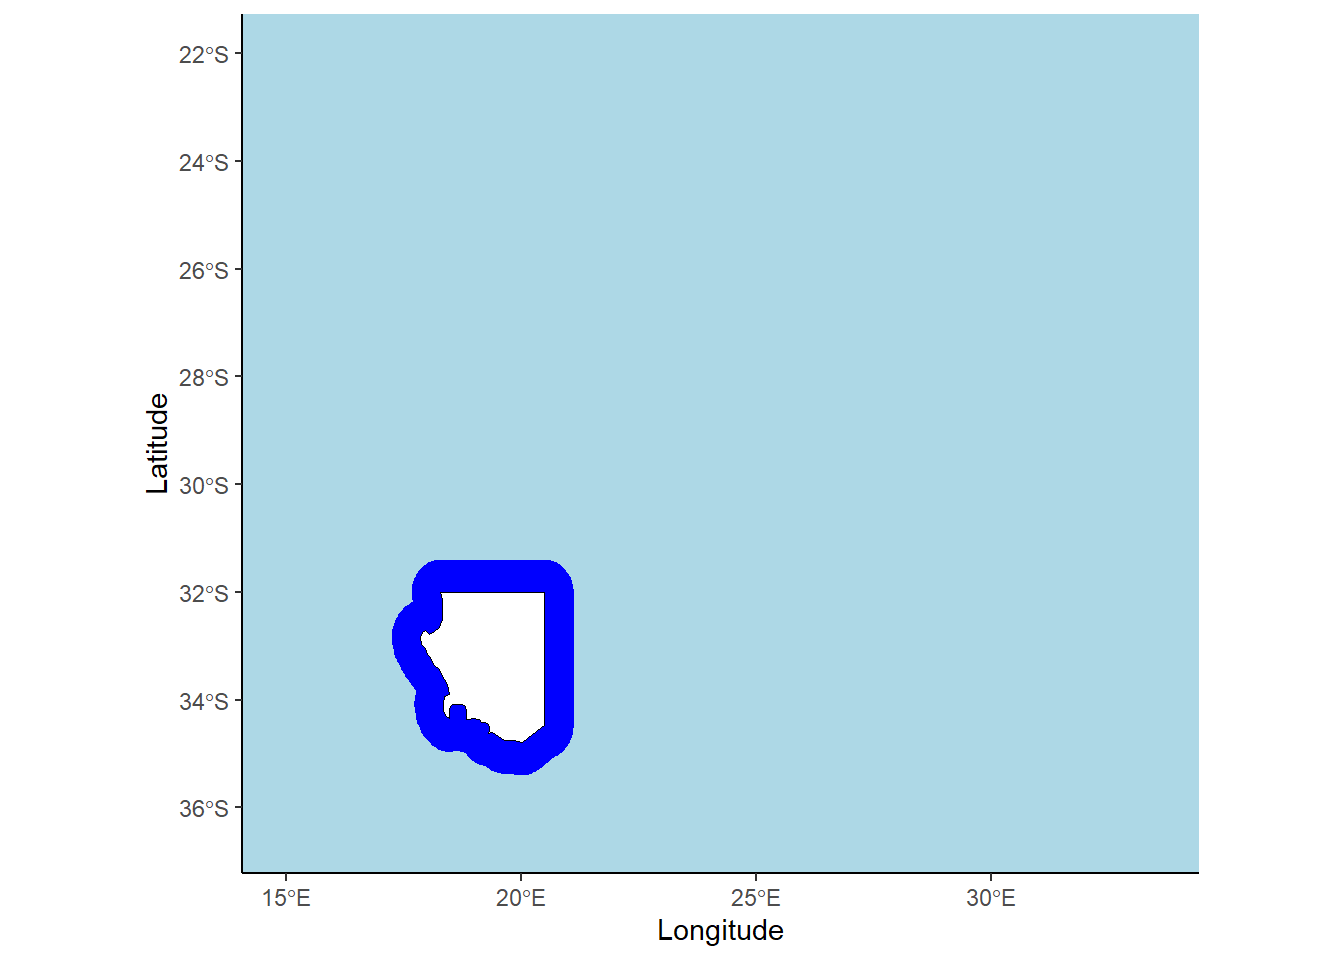
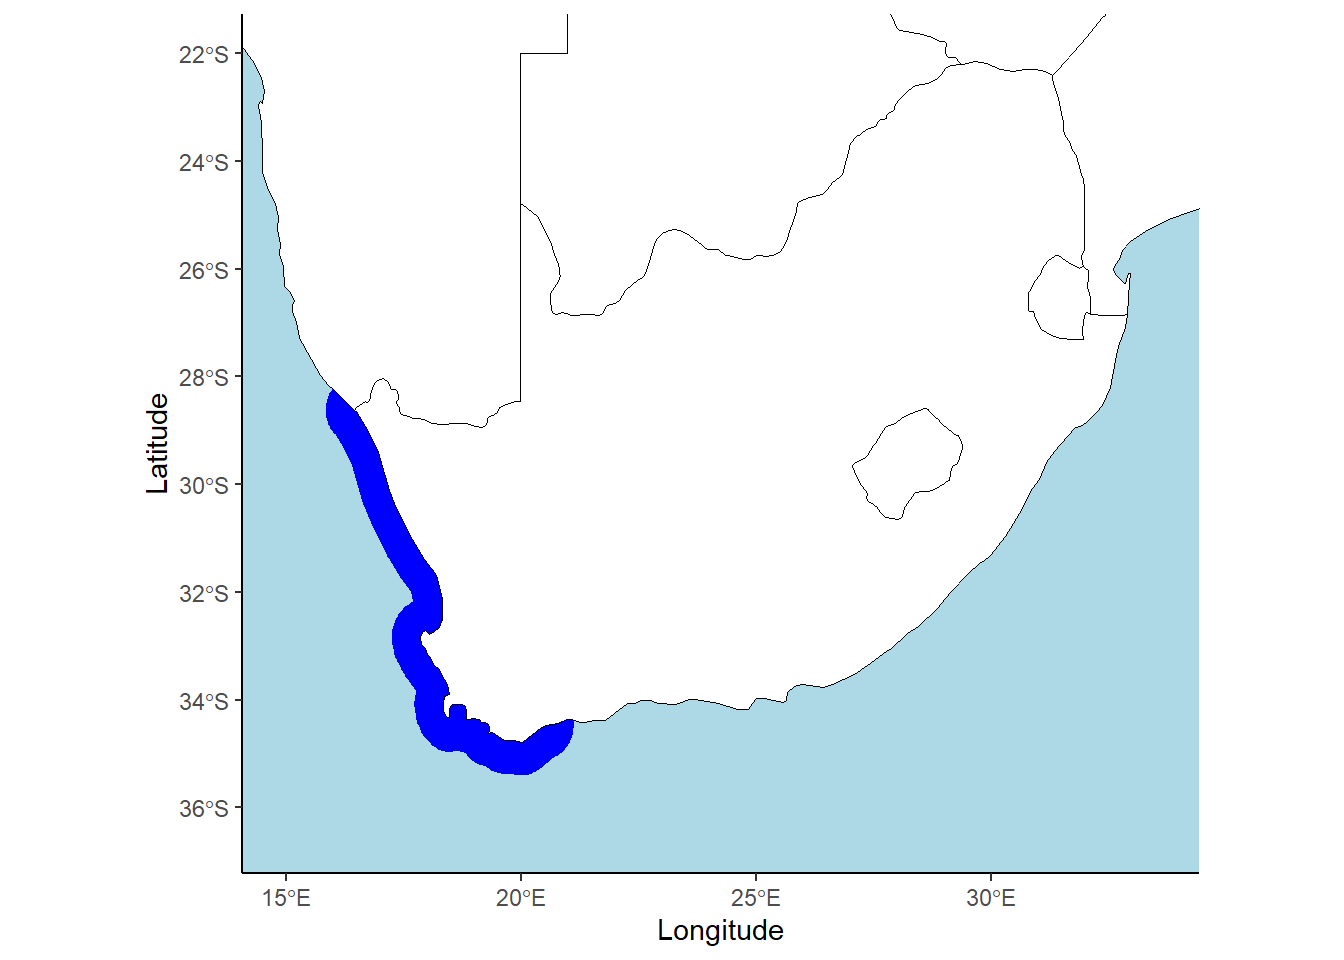
Ima cry

diff --git a/Distribution_map/Map.html b/Distribution_map/Map.html
@@ -168,7 +168,7 @@ pre > code.sourceCode > span > a:first-child::before { text-decoration: underlin
 <p>For latitude</p>
 <div class="cell">
 <div class="sourceCode cell-code" id="cb6"><pre class="sourceCode r code-with-copy"><code class="sourceCode r"><span id="cb6-1"><a href="#cb6-1" aria-hidden="true" tabindex="-1"></a>ymi <span class="ot">&lt;-</span> <span class="sc">-</span><span class="fl">37.5</span></span>
-<span id="cb6-2"><a href="#cb6-2" aria-hidden="true" tabindex="-1"></a>yma <span class="ot">&lt;-</span> <span class="sc">-</span><span class="dv">32</span></span>
+<span id="cb6-2"><a href="#cb6-2" aria-hidden="true" tabindex="-1"></a>yma <span class="ot">&lt;-</span> <span class="sc">-</span><span class="dv">22</span></span>
 <span id="cb6-3"><a href="#cb6-3" aria-hidden="true" tabindex="-1"></a>yli <span class="ot">&lt;-</span> <span class="fu">c</span>(ymi, yma)</span></code><button title="Copy to Clipboard" class="code-copy-button"><i class="bi"></i></button></pre></div>
 </div>
 <p>For bounding box</p>
@@ -269,7 +269,7 @@ longitude/latitude data</code></pre>
 </div>
 </div>
 <ol start="3" type="1">
-<li>Step 3: Add in buffer</li>
+<li>Step 3: Add in buffer for kelp forest distribution</li>
 </ol>
 <p>First lets make a map of South Africa</p>
 <div class="cell">
@@ -313,7 +313,7 @@ correctly buffer longitude/latitude data</code></pre>
 <div class="cell">
 <div class="sourceCode cell-code" id="cb28"><pre class="sourceCode r code-with-copy"><code class="sourceCode r"><span id="cb28-1"><a href="#cb28-1" aria-hidden="true" tabindex="-1"></a><span class="fu">ggplot</span>()<span class="sc">+</span></span>
 <span id="cb28-2"><a href="#cb28-2" aria-hidden="true" tabindex="-1"></a>  <span class="fu">geom_sf</span>(<span class="at">data =</span> buffer_kf, <span class="at">colour =</span> <span class="st">"blue"</span>, <span class="at">fill =</span> <span class="st">"blue"</span>) <span class="sc">+</span></span>
-<span id="cb28-3"><a href="#cb28-3" aria-hidden="true" tabindex="-1"></a>  <span class="fu">geom_sf</span>(<span class="at">data =</span> safrica_countries_kf,</span>
+<span id="cb28-3"><a href="#cb28-3" aria-hidden="true" tabindex="-1"></a>  <span class="fu">geom_sf</span>(<span class="at">data =</span> safrica_countries,</span>
 <span id="cb28-4"><a href="#cb28-4" aria-hidden="true" tabindex="-1"></a>          <span class="at">colour =</span> <span class="st">"black"</span>, <span class="at">fill =</span> <span class="st">"white"</span>) <span class="sc">+</span></span>
 <span id="cb28-5"><a href="#cb28-5" aria-hidden="true" tabindex="-1"></a>  <span class="fu">coord_sf</span>(<span class="at">xlim =</span> xlim,</span>
 <span id="cb28-6"><a href="#cb28-6" aria-hidden="true" tabindex="-1"></a>           <span class="at">ylim =</span> ylim) <span class="sc">+</span></span>
